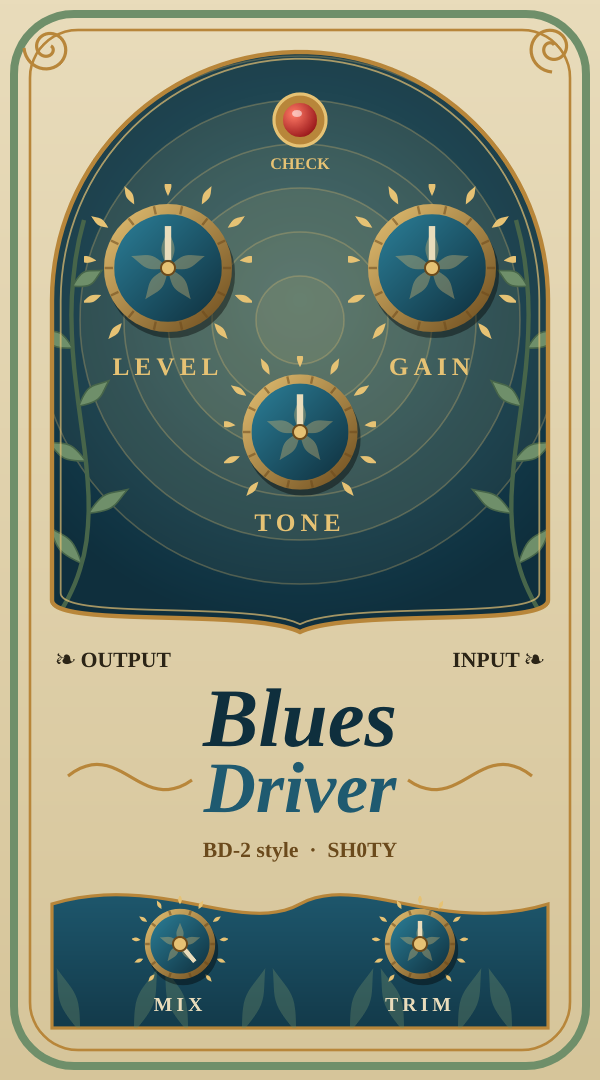
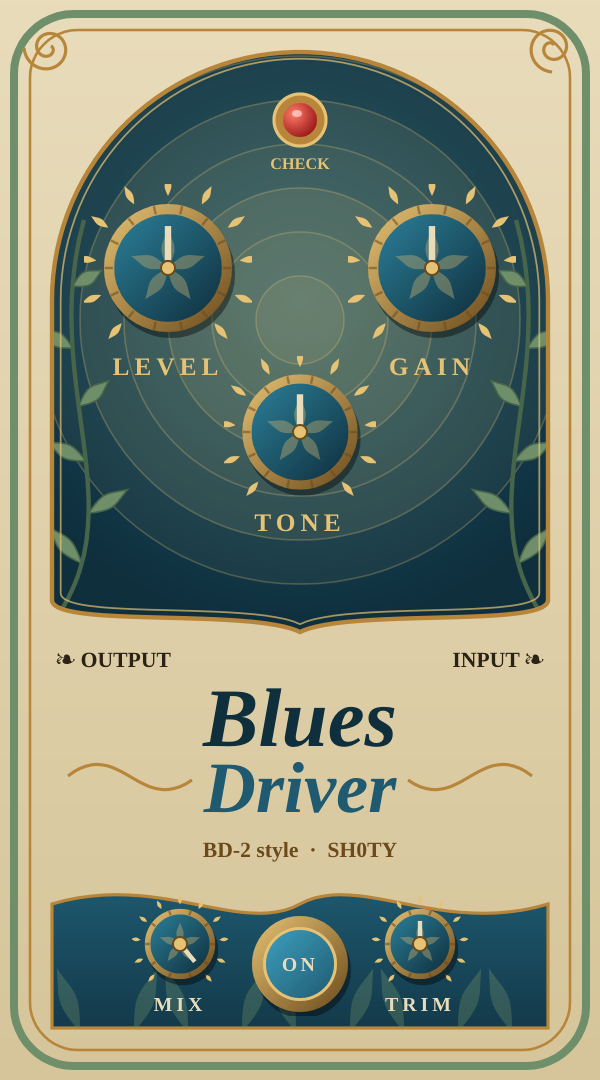
FZ-3 and BD-2: add smoothed bypass footswitch (On param + UI button)
Claude-Session: https://claude.ai/code/session_012hLuVF1MDrdb24tewskp13

Changed region(s): [[0.42, 0.825, 0.6, 0.9472]]

diff --git a/Source/BluesProcessor.cpp b/Source/BluesProcessor.cpp
@@ -15,6 +15,7 @@ Sh0tyBD2Processor::Sh0tyBD2Processor()
                   juce::NormalisableRange<float> (0.f, 1.f, 0.001f), def)); };
           add ("gain", "Gain", 0.5f); add ("tone", "Tone", 0.5f);
           add ("level", "Level", 0.5f); add ("mix", "Mix", 1.f);
+          p.push_back (std::make_unique<juce::AudioParameterBool> (juce::ParameterID { "on", 1 }, "On", true));
           p.push_back (std::make_unique<juce::AudioParameterFloat> (juce::ParameterID { "trim", 1 }, "Input Trim (dB)",
               juce::NormalisableRange<float> (-24.f, 24.f, 0.1f), 0.f));
           return juce::AudioProcessorValueTreeState::ParameterLayout { p.begin(), p.end() };
@@ -23,6 +24,7 @@ Sh0tyBD2Processor::Sh0tyBD2Processor()
     pGain = apvts.getRawParameterValue ("gain"); pTone = apvts.getRawParameterValue ("tone");
     pLevel = apvts.getRawParameterValue ("level"); pMix = apvts.getRawParameterValue ("mix");
     pTrim = apvts.getRawParameterValue ("trim");
+    pOn = apvts.getRawParameterValue ("on");
 }
 
 bool Sh0tyBD2Processor::isBusesLayoutSupported (const BusesLayout& l) const
@@ -37,9 +39,10 @@ void Sh0tyBD2Processor::prepareToPlay (double sr, int block)
     oversampling.reset();
     setLatencySamples ((int) std::round (oversampling.getLatencyInSamples()));
     for (auto& c : channels) c.prepare ((float) (sr * (1 << kStages)));
-    for (auto* s : { &gain, &tone, &level, &mix }) s->reset (sr, 0.03);
+    for (auto* s : { &onGain, &gain, &tone, &level, &mix }) s->reset (sr, 0.03);
     gain.setCurrentAndTargetValue (*pGain); tone.setCurrentAndTargetValue (*pTone);
     level.setCurrentAndTargetValue (*pLevel); mix.setCurrentAndTargetValue (*pMix);
+    onGain.setCurrentAndTargetValue (pOn->load() > 0.5f ? 1.f : 0.f);
 }
 
 void Sh0tyBD2Processor::processBlock (juce::AudioBuffer<float>& buffer, juce::MidiBuffer&)
@@ -49,7 +52,8 @@ void Sh0tyBD2Processor::processBlock (juce::AudioBuffer<float>& buffer, juce::Mi
     gain.setTargetValue (*pGain); tone.setTargetValue (*pTone);
     level.setTargetValue (*pLevel); mix.setTargetValue (*pMix);
     bd2::Params prm;
-    prm.gain = gain.skip (n); prm.tone = tone.skip (n); prm.level = level.skip (n); prm.mix = mix.skip (n);
+    prm.gain = gain.skip (n); prm.tone = tone.skip (n); prm.level = level.skip (n); onGain.setTargetValue (pOn->load() > 0.5f ? 1.f : 0.f);
+    prm.mix = mix.skip (n) * onGain.skip (n);
     prm.trim = juce::Decibels::decibelsToGain (pTrim->load());
 
     juce::dsp::AudioBlock<float> block (buffer);

diff --git a/Source/FuzzProcessor.cpp b/Source/FuzzProcessor.cpp
@@ -15,12 +15,14 @@ Sh0tyFZ3Processor::Sh0tyFZ3Processor()
                   juce::NormalisableRange<float> (0.f, 1.f, 0.001f), def)); };
           add ("fuzz", "Fuzz", 0.7f); add ("tone", "Tone", 0.5f);
           add ("volume", "Volume", 0.5f); add ("mix", "Mix", 1.f);
+          p.push_back (std::make_unique<juce::AudioParameterBool> (juce::ParameterID { "on", 1 }, "On", true));
           p.push_back (std::make_unique<juce::AudioParameterFloat> (juce::ParameterID { "trim", 1 }, "Input Trim (dB)", juce::NormalisableRange<float> (-24.f, 24.f, 0.1f), 0.f));
           return juce::AudioProcessorValueTreeState::ParameterLayout { p.begin(), p.end() };
       }())
 {
     pFuzz = apvts.getRawParameterValue ("fuzz");   pTone = apvts.getRawParameterValue ("tone");
     pVolume = apvts.getRawParameterValue ("volume"); pMix = apvts.getRawParameterValue ("mix"); pTrim = apvts.getRawParameterValue ("trim");
+    pOn = apvts.getRawParameterValue ("on");
 }
 
 bool Sh0tyFZ3Processor::isBusesLayoutSupported (const BusesLayout& l) const
@@ -35,9 +37,10 @@ void Sh0tyFZ3Processor::prepareToPlay (double sr, int block)
     oversampling.reset();
     setLatencySamples ((int) std::round (oversampling.getLatencyInSamples()));
     for (auto& c : channels) c.prepare ((float) (sr * (1 << kStages)));
-    for (auto* s : { &fuzz, &tone, &volume, &mix }) s->reset (sr, 0.03);
+    for (auto* s : { &onGain, &fuzz, &tone, &volume, &mix }) s->reset (sr, 0.03);
     fuzz.setCurrentAndTargetValue (*pFuzz); tone.setCurrentAndTargetValue (*pTone);
     volume.setCurrentAndTargetValue (*pVolume); mix.setCurrentAndTargetValue (*pMix);
+    onGain.setCurrentAndTargetValue (pOn->load() > 0.5f ? 1.f : 0.f);
 }
 
 void Sh0tyFZ3Processor::processBlock (juce::AudioBuffer<float>& buffer, juce::MidiBuffer&)
@@ -48,7 +51,8 @@ void Sh0tyFZ3Processor::processBlock (juce::AudioBuffer<float>& buffer, juce::Mi
     volume.setTargetValue (*pVolume); mix.setTargetValue (*pMix);
     const float trimLin = juce::Decibels::decibelsToGain (pTrim->load());
     fz3::Params prm; prm.trim = trimLin;
-    prm.fuzz = fuzz.skip (n); prm.tone = tone.skip (n); prm.volume = volume.skip (n); prm.mix = mix.skip (n);
+    prm.fuzz = fuzz.skip (n); prm.tone = tone.skip (n); prm.volume = volume.skip (n); onGain.setTargetValue (pOn->load() > 0.5f ? 1.f : 0.f);
+    prm.mix = mix.skip (n) * onGain.skip (n);
 
     juce::dsp::AudioBlock<float> block (buffer);
     auto sub = block.getSubsetChannelBlock (0, (size_t) nCh);

diff --git a/Source/BluesEditor.cpp b/Source/BluesEditor.cpp
@@ -136,6 +136,29 @@ void NouveauLookAndFeel::drawRotarySlider (juce::Graphics& g, int x, int y, int 
     g.drawEllipse (c.x - 3.5f, c.y - 3.5f, 7.f, 7.f, 1.f);
 }
 
+void NouveauLookAndFeel::drawButtonBackground (juce::Graphics& g, juce::Button& b, const juce::Colour&, bool over, bool)
+{
+    using namespace nouveau;
+    const auto r = b.getLocalBounds().toFloat().reduced (2.f);
+    const float d = juce::jmin (r.getWidth(), r.getHeight());
+    const auto rc = r.withSizeKeepingCentre (d, d);
+    const bool on = b.getToggleState();
+    g.setColour (juce::Colours::black.withAlpha (0.4f));
+    g.fillEllipse (rc.translated (1.5f, 3.f));
+    g.setGradientFill (juce::ColourGradient (bronzeHi, rc.getX(), rc.getY(), bronzeLo, rc.getRight(), rc.getBottom(), false));
+    g.fillEllipse (rc);
+    const auto face = rc.reduced (d * 0.13f);
+    g.setGradientFill (on ? juce::ColourGradient (juce::Colour (0xff3ea0bf), face.getX(), face.getY(), teal, face.getRight(), face.getBottom(), false)
+                          : juce::ColourGradient (juce::Colour (0xff2c3a3a), face.getX(), face.getY(), tealLo, face.getRight(), face.getBottom(), false));
+    g.fillEllipse (face);
+    g.setColour (over ? parch : bronzeHi);
+    g.drawEllipse (face, 1.5f);
+    g.setColour (on ? parch : juce::Colour (0xff8a9a92));
+    auto f = serif (11.f, false); f.setExtraKerningFactor (0.15f);
+    g.setFont (f);
+    g.drawText (on ? "ON" : "OFF", b.getLocalBounds(), juce::Justification::centred);
+}
+
 Sh0tyBD2Editor::Sh0tyBD2Editor (Sh0tyBD2Processor& p) : AudioProcessorEditor (&p), proc (p)
 {
     setLookAndFeel (&laf);
@@ -144,6 +167,10 @@ Sh0tyBD2Editor::Sh0tyBD2Editor (Sh0tyBD2Processor& p) : AudioProcessorEditor (&p
     addKnob (tone,  "tone",  "TONE",  false);
     addKnob (mix,   "mix",   "MIX",   true);
     addKnob (trim,  "trim",  "TRIM",  true);
+    footswitch.setClickingTogglesState (true);
+    footswitch.setTooltip ("Bypass footswitch");
+    addAndMakeVisible (footswitch);
+    footAttach = std::make_unique<juce::AudioProcessorValueTreeState::ButtonAttachment> (proc.apvts, "on", footswitch);
     setSize (300, 540);
 }
 
@@ -181,6 +208,7 @@ void Sh0tyBD2Editor::resized()
     place (tone,  { 150 - 38, 178, 76, 76 }, 18);
     place (mix,   { 66, 448, sm, sm }, 16);
     place (trim,  { 300 - 66 - sm, 448, sm, sm }, 16);
+    footswitch.setBounds (150 - 26, 456, 52, 52);
 }
 
 void Sh0tyBD2Editor::paint (juce::Graphics& g)

diff --git a/Source/FuzzEditor.cpp b/Source/FuzzEditor.cpp
@@ -106,6 +106,29 @@ void DecoLookAndFeel::drawRotarySlider (juce::Graphics& g, int x, int y, int w, 
     g.fillEllipse (c.x - 3.f, c.y - 3.f, 6.f, 6.f);
 }
 
+void DecoLookAndFeel::drawButtonBackground (juce::Graphics& g, juce::Button& b, const juce::Colour&, bool over, bool)
+{
+    using namespace deco;
+    const auto r = b.getLocalBounds().toFloat().reduced (2.f);
+    const float d = juce::jmin (r.getWidth(), r.getHeight());
+    const auto rc = r.withSizeKeepingCentre (d, d);
+    const bool on = b.getToggleState();
+    g.setColour (juce::Colours::black.withAlpha (0.5f));
+    g.fillEllipse (rc.translated (1.5f, 3.f));
+    g.setGradientFill (juce::ColourGradient (goldHi, rc.getX(), rc.getY(), goldLo, rc.getRight(), rc.getBottom(), false));
+    g.fillEllipse (rc);
+    const auto face = rc.reduced (d * 0.12f);
+    g.setGradientFill (on ? juce::ColourGradient (goldHi, face.getX(), face.getY(), gold, face.getRight(), face.getBottom(), false)
+                          : juce::ColourGradient (juce::Colour (0xff2a3438), face.getX(), face.getY(), juce::Colour (0xff050809), face.getRight(), face.getBottom(), false));
+    g.fillEllipse (face);
+    g.setColour (over ? cream : goldLo);
+    g.drawEllipse (face, 1.5f);
+    g.setColour (on ? ink : goldHi);
+    juce::Font f (juce::FontOptions (11.f, juce::Font::bold)); f.setExtraKerningFactor (0.2f);
+    g.setFont (f);
+    g.drawText (on ? "ON" : "OFF", b.getLocalBounds(), juce::Justification::centred);
+}
+
 Sh0tyFZ3Editor::Sh0tyFZ3Editor (Sh0tyFZ3Processor& p) : AudioProcessorEditor (&p), proc (p)
 {
     setLookAndFeel (&laf);
@@ -114,6 +137,10 @@ Sh0tyFZ3Editor::Sh0tyFZ3Editor (Sh0tyFZ3Processor& p) : AudioProcessorEditor (&p
     addKnob (tone,  "tone",   "TONE",  false);
     addKnob (mix,   "mix",    "MIX",   true);
     addKnob (trim,  "trim",   "TRIM",  true);
+    footswitch.setClickingTogglesState (true);
+    footswitch.setTooltip ("Bypass footswitch");
+    addAndMakeVisible (footswitch);
+    footAttach = std::make_unique<juce::AudioProcessorValueTreeState::ButtonAttachment> (proc.apvts, "on", footswitch);
     setSize (300, 520);
 }
 
@@ -151,6 +178,7 @@ void Sh0tyFZ3Editor::resized()
     place (tone,  { 150 - 38, 138, 76, 76 }, 18);
     place (mix,   { 58, 424, sm, sm }, 16);
     place (trim,  { 300 - 58 - sm, 424, sm, sm }, 16);
+    footswitch.setBounds (150 - 28, 428, 56, 56);
 }
 
 void Sh0tyFZ3Editor::paint (juce::Graphics& g)

diff --git a/Source/BluesEditor.h b/Source/BluesEditor.h
@@ -8,6 +8,8 @@ class NouveauLookAndFeel : public juce::LookAndFeel_V4
 public:
     void drawRotarySlider (juce::Graphics&, int x, int y, int w, int h, float pos,
                            float startAngle, float endAngle, juce::Slider&) override;
+    void drawButtonBackground (juce::Graphics&, juce::Button&, const juce::Colour&, bool, bool) override;
+    void drawButtonText (juce::Graphics&, juce::TextButton&, bool, bool) override {}
 };
 
 class Sh0tyBD2Editor : public juce::AudioProcessorEditor
@@ -30,5 +32,7 @@ private:
     Sh0tyBD2Processor& proc;
     NouveauLookAndFeel laf;
     Knob level, gain, tone, mix, trim;
+    juce::TextButton footswitch;
+    std::unique_ptr<juce::AudioProcessorValueTreeState::ButtonAttachment> footAttach;
     JUCE_DECLARE_NON_COPYABLE_WITH_LEAK_DETECTOR (Sh0tyBD2Editor)
 };

diff --git a/Source/FuzzEditor.h b/Source/FuzzEditor.h
@@ -8,6 +8,8 @@ class DecoLookAndFeel : public juce::LookAndFeel_V4
 public:
     void drawRotarySlider (juce::Graphics&, int x, int y, int w, int h, float pos,
                            float startAngle, float endAngle, juce::Slider&) override;
+    void drawButtonBackground (juce::Graphics&, juce::Button&, const juce::Colour&, bool, bool) override;
+    void drawButtonText (juce::Graphics&, juce::TextButton&, bool, bool) override {}
 };
 
 class Sh0tyFZ3Editor : public juce::AudioProcessorEditor
@@ -30,5 +32,7 @@ private:
     Sh0tyFZ3Processor& proc;
     DecoLookAndFeel laf;
     Knob level, fuzz, tone, mix, trim;
+    juce::TextButton footswitch;
+    std::unique_ptr<juce::AudioProcessorValueTreeState::ButtonAttachment> footAttach;
     JUCE_DECLARE_NON_COPYABLE_WITH_LEAK_DETECTOR (Sh0tyFZ3Editor)
 };

diff --git a/Source/FuzzProcessor.h b/Source/FuzzProcessor.h
@@ -31,7 +31,7 @@ private:
     juce::dsp::Oversampling<float> oversampling { 2, kStages,
         juce::dsp::Oversampling<float>::filterHalfBandPolyphaseIIR };
     fz3::FZ3 channels[2];
-    juce::SmoothedValue<float> fuzz, tone, volume, mix;
-    std::atomic<float>* pFuzz, *pTone, *pVolume, *pMix, *pTrim;
+    juce::SmoothedValue<float> onGain, fuzz, tone, volume, mix;
+    std::atomic<float>* pOn, *pFuzz, *pTone, *pVolume, *pMix, *pTrim;
     JUCE_DECLARE_NON_COPYABLE_WITH_LEAK_DETECTOR (Sh0tyFZ3Processor)
 };

diff --git a/Source/BluesProcessor.h b/Source/BluesProcessor.h
@@ -31,7 +31,7 @@ private:
     juce::dsp::Oversampling<float> oversampling { 2, kStages,
         juce::dsp::Oversampling<float>::filterHalfBandPolyphaseIIR };
     bd2::BD2 channels[2];
-    juce::SmoothedValue<float> gain, tone, level, mix;
-    std::atomic<float>* pGain, *pTone, *pLevel, *pMix, *pTrim;
+    juce::SmoothedValue<float> onGain, gain, tone, level, mix;
+    std::atomic<float>* pOn, *pGain, *pTone, *pLevel, *pMix, *pTrim;
     JUCE_DECLARE_NON_COPYABLE_WITH_LEAK_DETECTOR (Sh0tyBD2Processor)
 };
